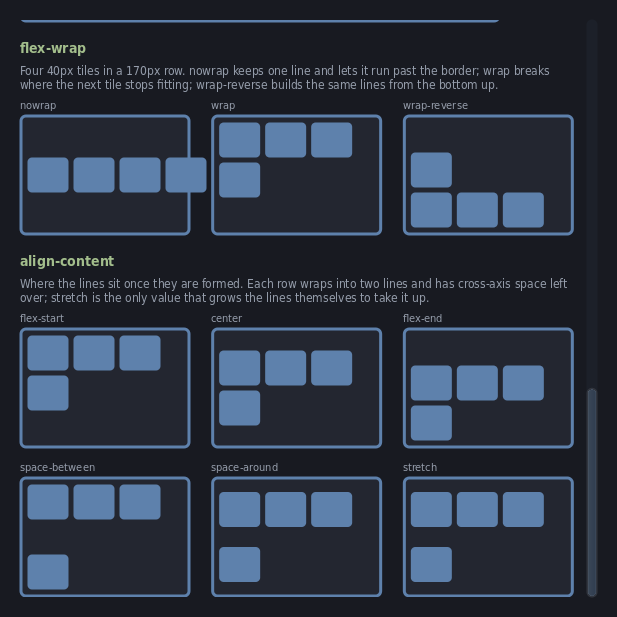
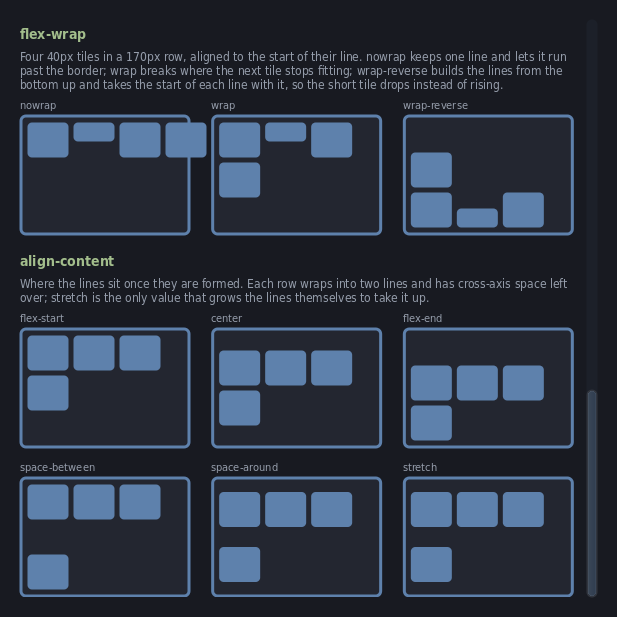
Demo flex: expose wrap-reverse item alignment
The flex-wrap cases align their tiles to the start of the line and give
one tile a shallower height, so wrap-reverse visibly drops it to the
bottom. Equal heights under align-items: center sit in the same place
whichever edge the line starts from, and show nothing.

diff --git a/examples/css/demo_flex.css b/examples/css/demo_flex.css
@@ -210,6 +210,13 @@
   flex-shrink: 0;
 }
 
+/*  A shallower tile shows which edge of its line is the starting one:
+    under wrap-reverse that is the bottom, so it drops rather than
+    rises. Equal-height tiles would sit still and show nothing. */
+.tile-short { height: 18px; }
+
+.align-start-items { align-items: flex-start; }
+
 /* Basis equals min-width: these cannot give up any of their share. */
 .pinned {
   flex-basis: 90px;
